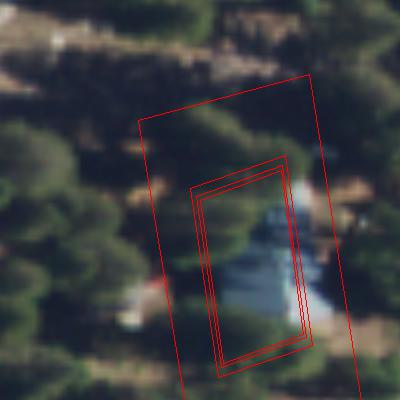
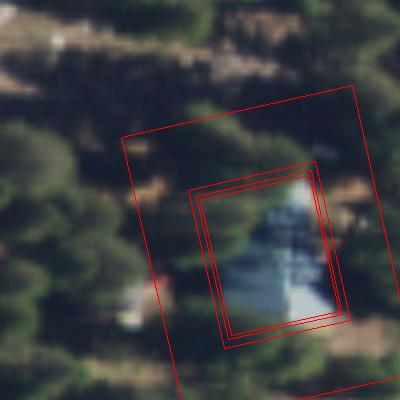
ugh

diff --git a/sophia-test/boundingbox.py b/sophia-test/boundingbox.py
@@ -1,12 +1,12 @@
 import numpy as np
 from PIL import Image, ImageDraw
-from shapely.geometry import Polygon
 
 RESOLUTION = 400
 IMAGE_WIDTH_IN_METERS = 50
 METERS_PER_PIXEL = IMAGE_WIDTH_IN_METERS / RESOLUTION
-METERS_PER_LAT_DEGREE = 181320 # 111320
+METERS_PER_LAT_DEGREE =  111320
 ZONES_IN_METERS = [5, 15, 100]
+MULTIPLIER = 1.35
 
 def meters_per_long_degree(lat_center):
     return 111320 * np.cos(np.radians(lat_center))
@@ -16,8 +16,8 @@ def distance(coord1, coord2):
     lon2, lat2 = coord2
     # lat1, lon1 = coord1
     # lat2, lon2 = coord2
-    dx = (lon2 - lon1) * meters_per_long_degree((lat1 + lat2) / 2)
-    dy = (lat2-lat1) * METERS_PER_LAT_DEGREE
+    dx = (lon2 - lon1) * meters_per_long_degree((lat1 + lat2) / 2) * MULTIPLIER
+    dy = (lat2-lat1) * METERS_PER_LAT_DEGREE * MULTIPLIER
     return (dx, dy)
 
 def bounding_box_to_pixel_coords(bounding_box):
@@ -77,6 +77,16 @@ def get_polygons_from_bounding_box(bounding_box):
     return res
 
 
+def create_masks(image, polygons):
+    masks = []
+    for polygon in polygons:
+        mask = Image.new('L', image.size, 1)
+        ImageDraw.Draw(mask).polygon(polygon, outline=1, fill=1)
+        masks.append(mask)
+        mask.save('mask.png')
+        mask.show()
+
+    return masks
 
 
 IMAGE_NAME = "50x50.png"
@@ -93,7 +103,7 @@ draw = ImageDraw.Draw(image)
 for polygon in polygons:   
     draw.polygon(polygon, outline='red', fill=None)  # Change 'red' to any color you want
 
-
+create_masks(image, polygons)
 
 # Save or display the result
 image.save('image_with_polygon.jpg')  # You can save the modified image

diff --git a/model/new_model.py b/model/new_model.py
@@ -117,10 +117,10 @@ async def get_risk_endpoint(request: Request):
         base64_image = get_base64_at(lat, lon, width, height)
         if base64_image:
             classification = classify_image(base64_image)
-            return classification
+            return base64_image, classification
         return None
 
     # Compute the risk
-    risk = get_risk(lat, lon, width, height)
+    base64_image, classification = get_risk(lat, lon, width, height)
 
-    return {"risk": risk}
+    return {"risk": classification, "image": base64_image}
